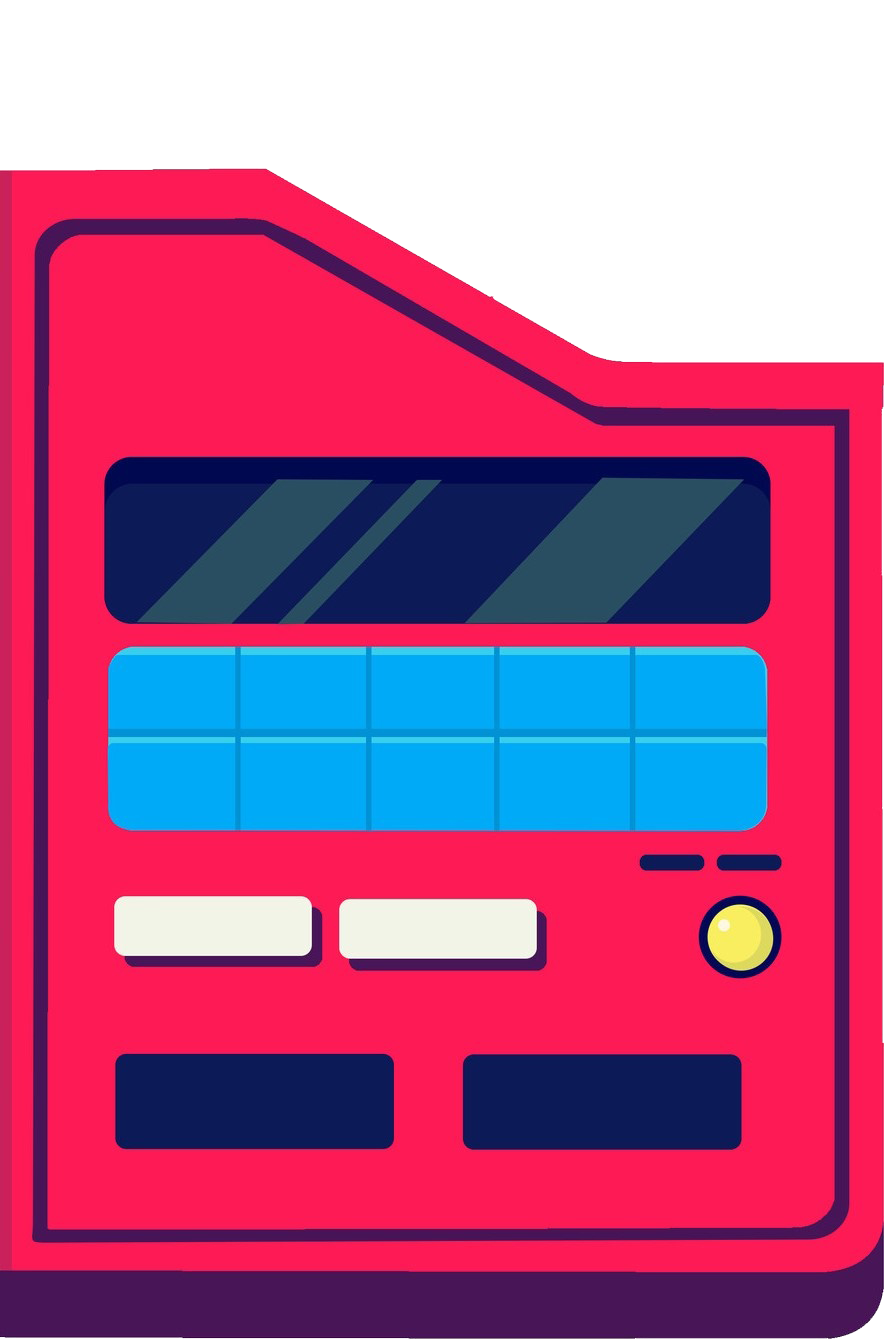
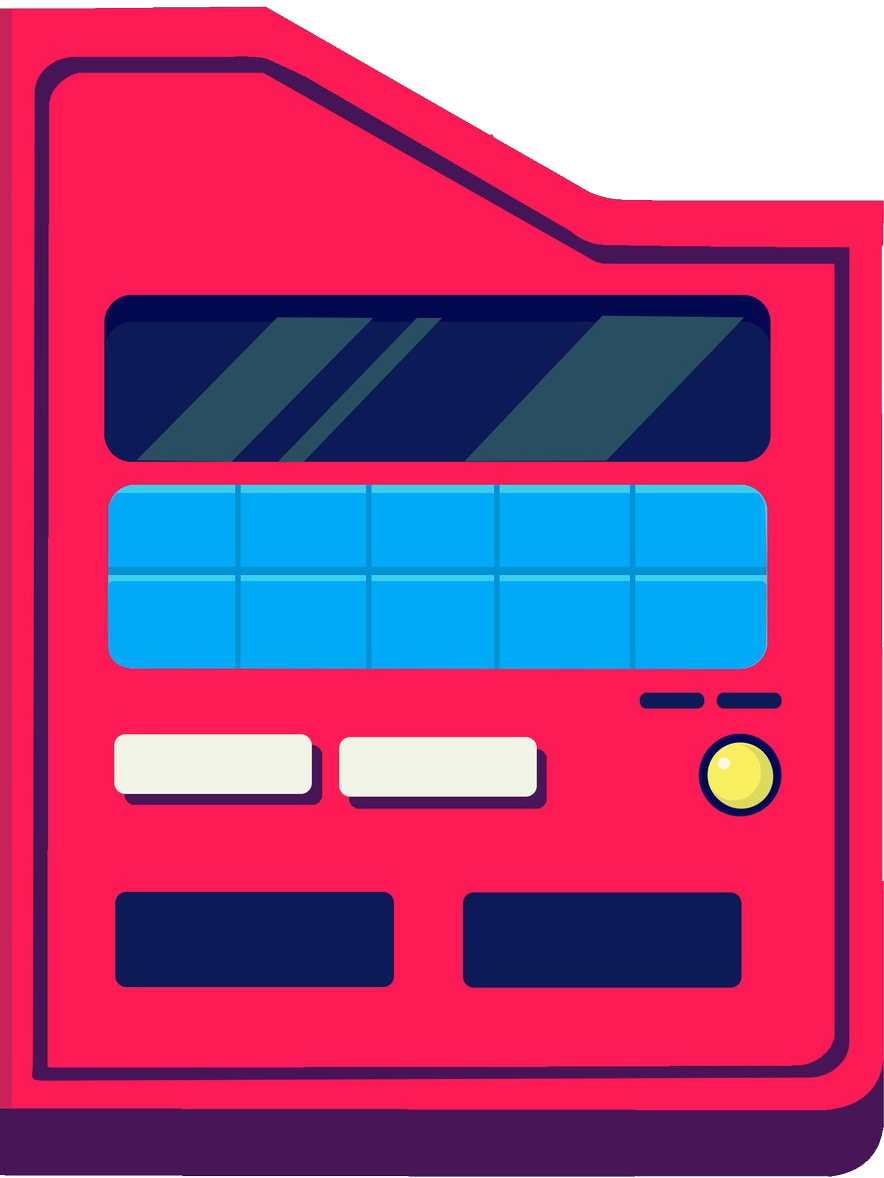
RightSide Updated

diff --git a/src/components/TypeComponent/index.jsx b/src/components/TypeComponent/index.jsx
@@ -1,8 +1,28 @@
+import bug from '../../images/types/bug.png'
+import dark from '../../images/types/dark.png'
+import dragon from '../../images/types/dragon.png'
+import eletric from '../../images/types/eletric.png'
+import fairy from '../../images/types/fairy.png'
+import fighting from '../../images/types/bug.png'
+import fire from '../../images/types/fire.png'
+import flying from '../../images/types/flying.png'
+import ghost from '../../images/types/ghost.png'
+import grass from '../../images/types/grass.png'
+import ground from '../../images/types/ground.png'
+import ice from '../../images/types/ice.png'
+import normal from '../../images/types/normal.png'
+import poison from '../../images/types/poison.png'
+import psychic from '../../images/types/psychic.png'
+import rock from '../../images/types/rock.png'
+import steel from '../../images/types/steel.png'
+import water from '../../images/types/water.png'
+
+
 
 const TypeComponent = () => {
 
     return(
-        <img src={'../images/types/normal.png'}></img>
+        <img src={steel}/>
     )
 } 
 

diff --git a/src/components/RightSidePokedex/index.jsx b/src/components/RightSidePokedex/index.jsx
@@ -1,5 +1,5 @@
 import './index.css'
-import TypeComponent from '../TypeComponent'
+import PokemonTypes from '../PokemonTypes'
 
 const RightSidePokedex = () => {
 
@@ -7,7 +7,7 @@ const RightSidePokedex = () => {
         <>
         <div className="rightSidePokedex">
 
-        <TypeComponent/>
+        <PokemonTypes/>
 
         </div>
         </>

diff --git a/src/components/PokemonTypes/index.jsx b/src/components/PokemonTypes/index.jsx
@@ -1,0 +1,17 @@
+import TypeComponent from '../TypeComponent'
+import './index.css'
+
+const PokemonTypes = () => {
+
+    return(
+        <div className="PokemonTypes">
+
+
+        <TypeComponent/>
+        <TypeComponent/>
+
+        </div>
+    )
+}
+
+export default PokemonTypes;

diff --git a/src/components/RightSidePokedex/index.css b/src/components/RightSidePokedex/index.css
@@ -1,7 +1,9 @@
 .rightSidePokedex {
   background: url("../../images/rightSide.png");
-  height: 709px;
+  height: 622px;
   width: 467px;
   background-size: cover;
+  -ms-flex-item-align: end;
+      align-self: flex-end;
 }
 /*# sourceMappingURL=index.css.map */

diff --git a/src/components/RightSidePokedex/index.sass b/src/components/RightSidePokedex/index.sass
@@ -1,6 +1,7 @@
 .rightSidePokedex
     background: url('../../images/rightSide.png')
-    height: 709px
+    height: 622px
     width: 467px
     background-size: cover
+    align-self: flex-end
     

diff --git a/src/components/PokemonTypes/index.css b/src/components/PokemonTypes/index.css
@@ -1,0 +1,5 @@
+.PokemonTypes {
+  position: absolute;
+  margin-top: 300px;
+}
+/*# sourceMappingURL=index.css.map */

diff --git a/src/components/PokemonTypes/index.sass b/src/components/PokemonTypes/index.sass
@@ -1,0 +1,3 @@
+.PokemonTypes
+    position: absolute
+    margin-top: 300px
